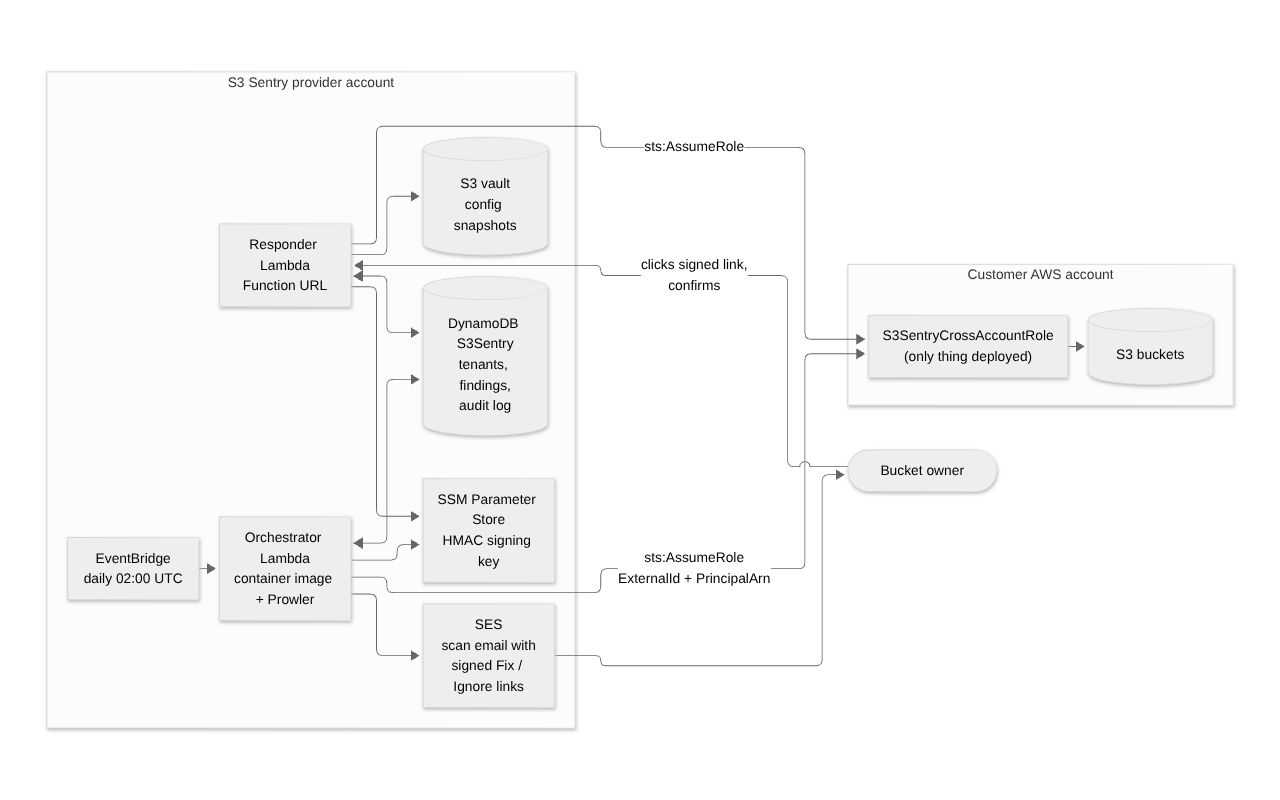
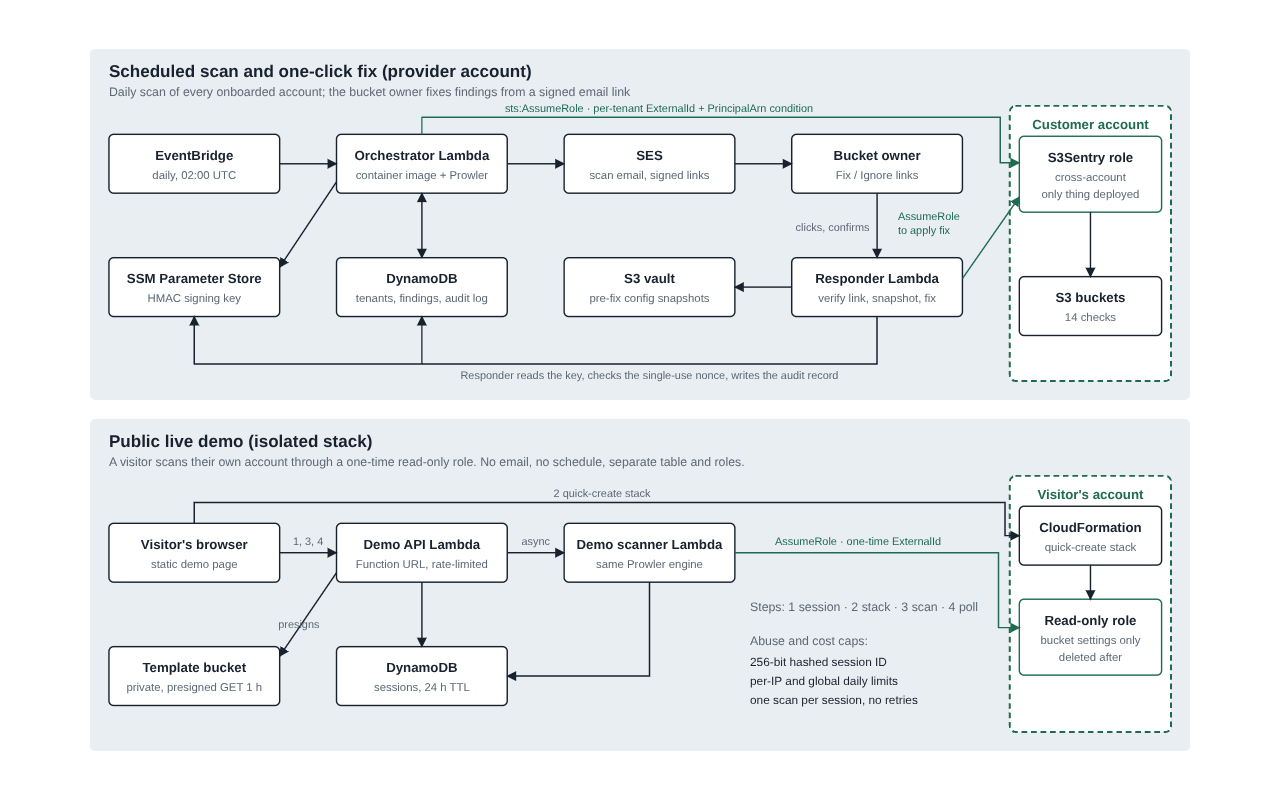
Portfolio: point three thumbnails at the new designed diagrams
Claude-Session: https://claude.ai/code/session_018Rux5GnhrdDwGfpcgXZXMV

diff --git a/judewakim/index.html b/judewakim/index.html
@@ -124,7 +124,7 @@
             direct links to the government records that prove them, so a client can check
             them before picking up the phone.
           </p>
-          <a class="proj__arch" href="https://github.com/Judewakim/verifyanagent-engine#architecture" target="_blank" rel="noopener">
+          <a class="proj__arch" href="https://github.com/Judewakim/verifyanagent-engine/blob/main/docs/architecture.svg" target="_blank" rel="noopener">
             <img src="img/arch/verifyanagent.png" width="1280" height="800" loading="lazy" alt="Architecture diagram of VerifyAnAgent">
             <span class="proj__arch-label"><b>Architecture diagram</b><span>Full size on GitHub</span></span>
           </a>
@@ -150,7 +150,7 @@
             and open your own report; nothing leaves your browser.
           </p>
           <p class="proj__stack">Python, boto3, STS with External ID, CloudFormation, Terraform, openpyxl, pytest with moto, GitHub Actions</p>
-          <a class="proj__arch" href="https://github.com/Judewakim/SOC2-Compliance-Workbook#architecture" target="_blank" rel="noopener">
+          <a class="proj__arch" href="https://github.com/Judewakim/SOC2-Compliance-Workbook/blob/main/docs/architecture.svg" target="_blank" rel="noopener">
             <img src="img/arch/soc2-evidence-kit.png" width="1280" height="800" loading="lazy" alt="Architecture diagram of SOC 2 Evidence Kit">
             <span class="proj__arch-label"><b>Architecture diagram</b><span>Full size on GitHub</span></span>
           </a>
@@ -205,7 +205,7 @@
             read-only IAM role you deploy and delete.
           </p>
           <p class="proj__stack">Python, Docker, Lambda container images, EventBridge, DynamoDB, STS, SSM, SES, CloudFormation</p>
-          <a class="proj__arch" href="https://github.com/Judewakim/s3-misconfig#architecture" target="_blank" rel="noopener">
+          <a class="proj__arch" href="https://github.com/Judewakim/s3-misconfig/blob/main/docs/architecture.svg" target="_blank" rel="noopener">
             <img src="img/arch/s3-sentry.png" width="1280" height="800" loading="lazy" alt="Architecture diagram of S3 Sentry">
             <span class="proj__arch-label"><b>Architecture diagram</b><span>Full size on GitHub</span></span>
           </a>
